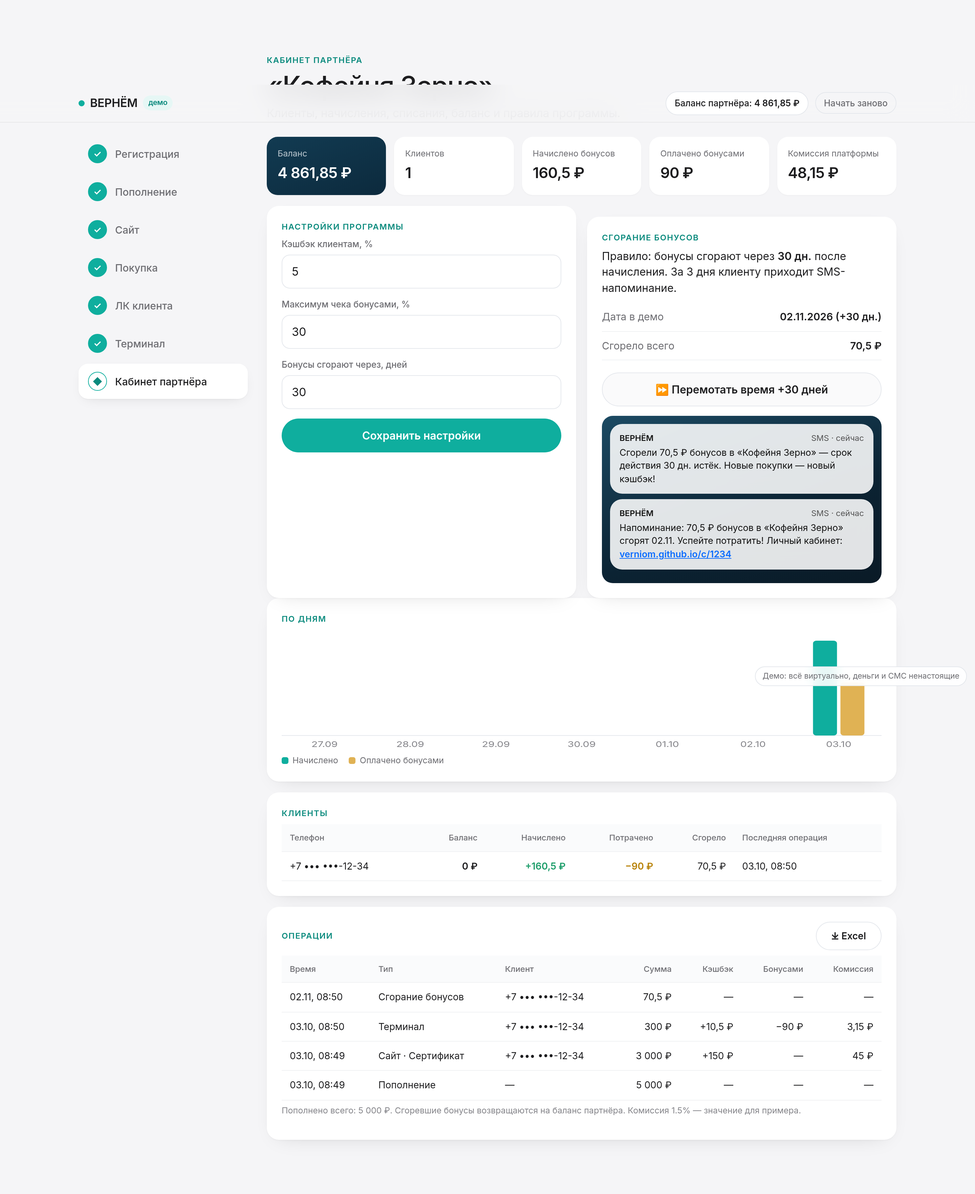
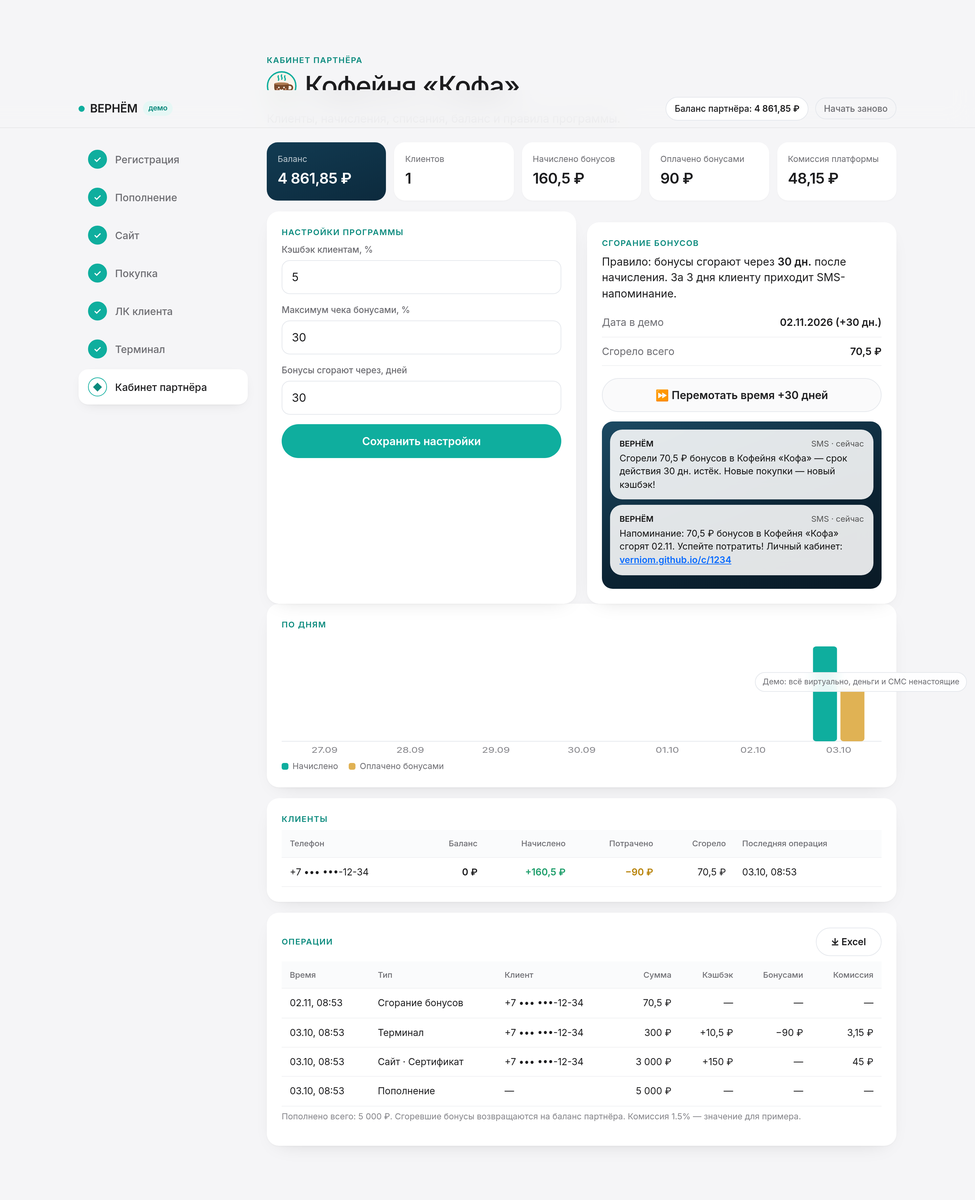
Демо: кофейня «Кофа» с SVG-логотипом (лендинг, кабинеты, админка)

diff --git a/demo/index.html b/demo/index.html
@@ -164,6 +164,8 @@ td.n,th.n{text-align:right}
 .toast.show{opacity:1;transform:translateX(-50%)}
 .vnote{position:fixed;right:12px;bottom:calc(12px + env(safe-area-inset-bottom));z-index:40;font-size:11.5px;color:var(--grey);background:rgba(255,255,255,.9);border:1px solid var(--border);border-radius:980px;padding:5px 10px;backdrop-filter:blur(8px)}
 .next{margin-top:18px}
+.ava{flex-shrink:0;display:block}.lbrand,.hlogo,.nett{display:inline-flex;align-items:center;gap:8px}.hlogo{gap:12px}.nett .ava{border-radius:50%}
+.land .hero .hero-ava{margin-bottom:10px;filter:drop-shadow(0 8px 14px rgba(122,74,42,.25))}
 .visit{display:grid;grid-template-columns:1fr 1fr;gap:12px;padding:0 20px 20px}
 .map{position:relative;min-height:140px;border-radius:16px;overflow:hidden;background:#EAE6DF}
 .map .rd{position:absolute;background:#fff}.map .h1{left:0;right:0;top:38%;height:12px}.map .h2{left:0;right:0;top:75%;height:7px}.map .v1{top:0;bottom:0;left:30%;width:9px}.map .v2{top:0;bottom:0;left:72%;width:14px;transform:skewX(-12deg)}
@@ -172,7 +174,7 @@ td.n,th.n{text-align:right}
 .vinfo{background:#fff;border-radius:16px;padding:14px;font-size:13.5px;display:flex;flex-direction:column;gap:6px;color:#4a372a}.vinfo b{font-weight:600;color:#2b1d14}
 .nets-t{font-size:12px;font-weight:600;color:var(--grey);margin:0 2px 6px}
 .bal2{display:flex;justify-content:space-between;align-items:center;background:#fff;border-radius:14px;padding:12px;margin-bottom:10px;border:1px solid var(--border)}
-.bal2 .t{font-size:13px;font-weight:600}.bal2 small{font-size:11px;color:var(--grey2)}.bal2 b{font-weight:600}
+.bal2 .t{font-size:13px;font-weight:600}.bal2 small{font-size:11px;color:var(--grey2)}.bal2 b{font-weight:600;white-space:nowrap;margin-left:8px}
 .model{background:var(--tint);color:#0b5f56;border-radius:12px;padding:12px 14px;font-size:14px;margin:14px 0 4px}.model b{font-weight:600}
 @media (max-width:560px){.visit{grid-template-columns:1fr}}
 .pill.low{border-color:#F3C7C1;color:var(--red)}
@@ -221,7 +223,11 @@ var KEY='verniom_demo_v2',DAY=864e5,LOW=1000;
 var STEPS=[[1,'Регистрация'],[2,'Пополнение'],[3,'Сайт'],[4,'Покупка'],[5,'ЛК клиента'],[6,'Терминал'],[7,'Кабинет партнёра']];
 var ADDR='ул. Братиславская, 14, Москва',HOURS='Ежедневно 8:00–22:00';
 var OTHER={name:'Автомойка «Блеск»',bal:120,exp:'15.12.2026'};
-function coffee(n){n=String(n||'').trim()||'Зерно';return /коф|cafe|coffee|кафе/i.test(n)?n:'Кофейня '+n;}
+function coffee(n){n=String(n||'').trim();if(!n)return 'Кофейня «Кофа»';return /кофейн|кафе|cafe|coffee|кофе(?![а-яё])/i.test(n)?n:'Кофейня '+qn(n);}
+function logo(sz,cls){sz=sz||40;return '<svg class="ava'+(cls?' '+cls:'')+'" width="'+sz+'" height="'+sz+'" viewBox="0 0 64 64" aria-hidden="true"><circle cx="32" cy="32" r="30.5" fill="#FBF3EA" stroke="#0FAE9E" stroke-width="3"/><path d="M25 10c-3 3.5 3 5.5 0 9.5M32 8c-3 3.5 3 5.5 0 9.5M39 10c-3 3.5 3 5.5 0 9.5" stroke="#0FAE9E" stroke-width="2.6" fill="none" stroke-linecap="round"/><path d="M47 30h2.5a5.5 5.5 0 0 1 0 11H45" stroke="#7A4A2A" stroke-width="3.4" fill="none" stroke-linecap="round"/><path d="M16 27h31v8a13 13 0 0 1-13 13h-5a13 13 0 0 1-13-13z" fill="#7A4A2A"/><ellipse cx="31.5" cy="27" rx="15.5" ry="2.8" fill="#B07B52"/><circle cx="26" cy="35" r="1.7" fill="#FBF3EA"/><circle cx="37" cy="35" r="1.7" fill="#FBF3EA"/><path d="M28.5 39.5c1.6 1.8 4.4 1.8 6 0" stroke="#FBF3EA" stroke-width="2" fill="none" stroke-linecap="round"/><circle cx="22.5" cy="38.5" r="1.8" fill="#E9A38B" opacity=".8"/><circle cx="40.5" cy="38.5" r="1.8" fill="#E9A38B" opacity=".8"/><path d="M13 52h37" stroke="#D2B08F" stroke-width="3" stroke-linecap="round"/></svg>';}
+function initAva(n,sz,bg){sz=sz||40;var ch=String(n).replace(/^[^«]*«/,'').charAt(0).toUpperCase();return '<svg class="ava" width="'+sz+'" height="'+sz+'" viewBox="0 0 64 64" aria-hidden="true"><circle cx="32" cy="32" r="31" fill="'+(bg||'#E6F7F5')+'"/><text x="32" y="41" text-anchor="middle" font-family="Inter,sans-serif" font-size="26" font-weight="600" fill="#0A8A7D">'+ch+'</text></svg>';}
+function qn(n){n=String(n);return /[«"]/.test(n)?n:'«'+n+'»';}
+
 var MENU=[['☕','Капучино',290],['🥛','Латте',320],['☕','Флэт уайт',340],['🥐','Круассан',250],['🍰','Чизкейк',380],['🎁','Сертификат',3000]];
 function blank(){return {partner:null,site:null,clients:{},tx:[],last:null,step:1,sms:[],off:0};}
 var S;
@@ -288,19 +294,19 @@ function v1(){
   var p=S.partner;
   return head('Шаг 1','Регистрация партнёра','Подключите любой бизнес за минуту. В демо — кофейня: название можно поменять.')+
   '<div class="card"><form id="f1" autocomplete="off">'+
-  '<label class="f"><span>Название бизнеса</span><input class="i" name="name" required maxlength="40" value="'+esc(p?p.name:'Кофейня Зерно')+'"></label>'+
+  '<label class="f"><span>Название бизнеса</span><input class="i" name="name" required maxlength="40" value="'+esc(p?p.name:'Кофейня «Кофа»')+'"></label>'+
   '<label class="f"><span>Телефон</span><input class="i" name="phone" type="tel" inputmode="tel" required value="'+esc(p?fmtPhone(p.phone):'+7 (900) 123-45-67')+'"></label>'+
   '<div class="grid2"><label class="f"><span>Кэшбэк клиентам, %</span><input class="i" name="cb" type="number" inputmode="decimal" min="1" max="30" step="0.5" value="'+(p?p.cb:5)+'"></label>'+
   '<label class="f"><span>Комиссия платформы, %</span><input class="i" name="comm" type="number" inputmode="decimal" min="0" max="20" step="0.1" placeholder="1" value="'+(p?p.comm:1)+'"><div class="hint">Значение для примера — можно изменить</div></label></div>'+
   '<button class="btn wide" data-t="create">'+(p?'Сохранить':'Создать кабинет партнёра')+'</button></form>'+
-  (p?'<div class="ok-banner">✓ Кабинет «'+esc(p.name)+'» создан</div><button class="btn sec wide" data-t="to2">Дальше: пополнить баланс →</button>':'')+'</div>';
+  (p?'<div class="ok-banner">✓ Кабинет '+esc(qn(p.name))+' создан</div><button class="btn sec wide" data-t="to2">Дальше: пополнить баланс →</button>':'')+'</div>';
 }
 function b1(){
   $('#f1').onsubmit=function(e){e.preventDefault();var f=e.target;var ph=normPhone(f.phone.value);
     if(ph.length!==11){toast('Введите телефон в формате +7…');return;}
     var cb=parseFloat(String(f.cb.value).replace(',','.'));if(!(cb>=1&&cb<=30)){toast('Кэшбэк: от 1 до 30%');return;}
     var cm=f.comm.value===''?1:parseFloat(String(f.comm.value).replace(',','.'));if(!(cm>=0&&cm<=20)){toast('Комиссия: от 0 до 20%');return;}
-    var name=f.name.value.trim()||'Кофейня Зерно';
+    var name=f.name.value.trim()||'Кофейня «Кофа»';
     if(S.partner){S.partner.name=name;S.partner.phone=ph;S.partner.cb=cb;S.partner.comm=cm;}
     else S.partner={name:name,phone:ph,cb:cb,comm:cm,balance:0,maxShare:30,expDays:30,created:vnow()};
     S.partner.slug=slug(name);save();toast('Кабинет партнёра создан');go(2);};
@@ -347,7 +353,7 @@ function b3(){
   $$('[data-mode]').forEach(function(b){b.onclick=function(){siteMode=b.dataset.mode;render();};});
   var f=$('#f3');if(f)f.onsubmit=function(e){e.preventDefault();var u=e.target.url.value.trim().replace(/^https?:\/\//,'');if(!u){toast('Введите адрес');return;}S.site={mode:'own',url:u};save();toast('Виджет установлен');render();};
   var p=$('[data-t=publish]');if(p)p.onclick=async function(){p.disabled=true;var log=$('#log');log.hidden=false;
-    var L=['$ verniom init «'+S.partner.name+'»','→ Генерируем страницу и меню…','→ Подключаем кэшбэк '+S.partner.cb+'%…','→ Выпускаем SSL-сертификат…','→ Публикуем на '+S.partner.slug+'.verniom.github.io…','✓ Готово! Сайт опубликован'];
+    var L=['$ verniom init '+qn(S.partner.name)+'','→ Генерируем страницу и меню…','→ Подключаем кэшбэк '+S.partner.cb+'%…','→ Выпускаем SSL-сертификат…','→ Публикуем на '+S.partner.slug+'.verniom.github.io…','✓ Готово! Сайт опубликован'];
     for(var i=0;i<L.length;i++){await sleep(450);var d=document.createElement('div');d.textContent=L[i];log.appendChild(d);}
     await sleep(400);S.site={mode:'new'};save();toast('Сайт опубликован');go(4);};
   var t=$('[data-t=to4]');if(t)t.onclick=function(){go(4);};
@@ -356,8 +362,8 @@ function b3(){
 function landing(){
   var p=S.partner,cn=coffee(p.name);
   return '<div class="browser"><div class="bbar"><i></i><i></i><i></i><div class="url">🔒 '+esc(siteUrl())+'</div></div><div class="land">'+
-  '<div class="nav"><span>☕ '+esc(cn)+'</span><small>📍 '+ADDR+'</small></div>'+
-  '<div class="hero"><h2>'+esc(cn)+'</h2><p>Кофе, который хочется повторить. Свежая обжарка и выпечка каждый день.</p><div class="cbk"><span class="dot"></span>Кэшбэк '+p.cb+'% с каждой покупки</div></div>'+
+  '<div class="nav"><span class="lbrand">'+logo(34)+esc(cn)+'</span><small>📍 '+ADDR+'</small></div>'+
+  '<div class="hero">'+logo(64,'hero-ava')+'<h2>'+esc(cn)+'</h2><p>Кофе, который хочется повторить. Свежая обжарка и выпечка каждый день.</p><div class="cbk"><span class="dot"></span>Кэшбэк '+p.cb+'% с каждой покупки</div></div>'+
   '<div class="menu">'+MENU.map(function(m,i){return '<div class="mi"><div class="em">'+m[0]+'</div><b>'+m[1]+'</b><span class="pr">'+fmt(m[2])+'</span><button data-buy="'+i+'">Купить</button></div>';}).join('')+'</div>'+
   '<div class="visit"><div class="map" aria-hidden="true"><i class="rd h1"></i><i class="rd h2"></i><i class="rd v1"></i><i class="rd v2"></i><span class="pin"><i>☕</i></span><span class="mlbl">Братиславская</span></div>'+
   '<div class="vinfo"><b>Как нас найти</b><div>📍 '+ADDR+'</div><div>🚇 м. Братиславская, 3 мин пешком</div><div>🕗 '+HOURS+'</div><div>☎ '+esc(fmtPhone(p.phone))+'</div></div></div>'+
@@ -369,9 +375,9 @@ function phoneLock(list,id){
   (list.length?list.slice(0,4).map(smsHtml).join(''):'<div class="empty">Здесь появится SMS клиенту</div>')+'</div></div></div></div>';
 }
 function smsHtml(m){
-  var b;if(m.k==='rem')b='Напоминание: '+fmt(m.amt)+' бонусов в «'+esc(m.partner)+'» сгорят '+dshort(m.exp)+'. Успейте потратить! Личный кабинет: <a data-lk="'+m.phone+'">'+lkLink(m.phone)+'</a>';
-  else if(m.k==='exp')b='Сгорели '+fmt(m.amt)+' бонусов в «'+esc(m.partner)+'» — срок действия '+m.days+' дн. истёк. Новые покупки — новый кэшбэк!';
-  else b='Вам начислен кэшбэк '+fmt(m.cb)+' в «'+esc(m.partner)+'». Личный кабинет: <a data-lk="'+m.phone+'">'+lkLink(m.phone)+'</a>';
+  var b;if(m.k==='rem')b='Напоминание: '+fmt(m.amt)+' бонусов в '+esc(qn(m.partner))+' сгорят '+dshort(m.exp)+'. Успейте потратить! Личный кабинет: <a data-lk="'+m.phone+'">'+lkLink(m.phone)+'</a>';
+  else if(m.k==='exp')b='Сгорели '+fmt(m.amt)+' бонусов в '+esc(qn(m.partner))+' — срок действия '+m.days+' дн. истёк. Новые покупки — новый кэшбэк!';
+  else b='Вам начислен кэшбэк '+fmt(m.cb)+' в '+esc(qn(m.partner))+'. Личный кабинет: <a data-lk="'+m.phone+'">'+lkLink(m.phone)+'</a>';
   return '<div class="sms show"><div class="h"><b>ВЕРНЁМ</b><span>SMS · сейчас</span></div>'+b+'</div>';}
 var lastBreak=null;
 function v4(){
@@ -379,7 +385,7 @@ function v4(){
   '<div class="stage"><div>'+landing()+(lastBreak?breakHtml(lastBreak):'')+'</div><div id="phonecol">'+phoneLock(S.sms)+'<p class="hint" style="text-align:center">Телефон клиента (макет) · нажмите ссылку в SMS</p></div></div>';
 }
 function breakHtml(b){return '<div class="card" style="margin-top:16px"><div class="eyebrow">Расчёт по покупке</div>'+
-  '<div class="kv"><span>Покупка «'+esc(b.item)+'»</span><b>'+fmt(b.amount)+'</b></div>'+
+  '<div class="kv"><span>Покупка '+esc(qn(b.item))+'</span><b>'+fmt(b.amount)+'</b></div>'+
   '<div class="kv"><span>Кэшбэк клиенту ('+b.cbp+'%)</span><b class="plus">+'+fmt(b.cb)+'</b></div>'+
   '<div class="kv"><span>Комиссия платформы ('+b.cp+'%)</span><b>'+fmt(b.comm)+'</b></div>'+
   '<div class="kv"><span>Списано с баланса партнёра</span><b class="minus">−'+fmt(b.cb+b.comm)+'</b></div>'+
@@ -416,16 +422,16 @@ function v5(){
   var c=client(S.last),p=S.partner,ne=nextExp(c);
   return head('Шаг 5','Личный кабинет клиента','Клиент открыл ссылку из SMS: баланс, история, срок бонусов и PIN для терминала.')+
   '<div class="stage s5"><div><div class="phone"><div class="screen"><div class="isl"></div><div class="sbar"><span>9:41</span><span>●●● ▮</span></div><div class="lk">'+
-  '<div class="hd"><span><span class="dot"></span> '+esc(p.name)+'</span><span style="font-size:12px;color:var(--grey)">'+esc(maskPhone(c.phone))+'</span></div>'+
+  '<div class="hd"><span class="nett">'+logo(24)+esc(p.name)+'</span><span style="font-size:12px;color:var(--grey)">'+esc(maskPhone(c.phone))+'</span></div>'+
   '<div class="nets-t">Мои бонусы по сетям</div>'+
-  '<div class="bal"><div class="t">'+esc(coffee(p.name).toUpperCase())+'</div><div class="s" data-t="cbal">'+fmt(c.balance)+'</div><p>+'+p.cb+'% с покупки · тратятся только здесь</p></div>'+
-  '<div class="bal2"><div><div class="t">'+esc(OTHER.name)+'</div><small>только в этой сети · до '+OTHER.exp+'</small></div><b>'+fmt(OTHER.bal)+'</b></div>'+
+  '<div class="bal"><div class="t nett">'+logo(26)+esc(coffee(p.name).toUpperCase())+'</div><div class="s" data-t="cbal">'+fmt(c.balance)+'</div><p>+'+p.cb+'% с покупки · тратятся только здесь</p></div>'+
+  '<div class="bal2"><div class="nett">'+initAva(OTHER.name,30)+'<div><div class="t">'+esc(OTHER.name)+'</div><small>только в этой сети · до '+OTHER.exp+'</small></div></div><b>'+fmt(OTHER.bal)+'</b></div>'+
   '<div class="lkc exp"><h4>Срок действия</h4>'+(ne?'<div class="hr"><div>Сгорят '+dstr(ne.exp)+'<small>Бонусы действуют '+p.expDays+' дн.</small></div><div class="minus">'+fmt(ne.amt)+'</div></div>':'<div class="hint">Нет бонусов со сроком · действуют '+p.expDays+' дн.</div>')+'</div>'+
   '<div class="lkc"><h4>История</h4>'+(c.hist.length?c.hist.slice(0,6).map(function(h){return '<div class="hr"><div>'+esc(h.txt)+'<small>'+h.t+' · '+fmt(h.amount)+'</small></div><div class="'+(h.d>=0?'plus':'minus')+'">'+(h.d>=0?'+':'−')+fmt(Math.abs(h.d))+'</div></div>';}).join(''):'<div class="hint">Пока пусто</div>')+'</div>'+
   '<div class="lkc"><h4>PIN для оплаты в терминале</h4><div class="pinrow"><input id="pin" inputmode="numeric" maxlength="4" value="'+esc(c.pin)+'" aria-label="PIN"><button data-t="pin">Сохранить</button></div><div class="hint">По умолчанию 1234</div></div>'+
   '</div></div></div></div>'+
-  '<div class="card"><div class="eyebrow">Что видит клиент</div><div class="kv"><span>Телефон</span><b>'+esc(fmtPhone(c.phone))+'</b></div><div class="kv"><span>Бонусов в «'+esc(p.name)+'»</span><b>'+fmt(c.balance)+'</b></div><div class="kv"><span>Бонусов в «'+esc(OTHER.name)+'»</span><b>'+fmt(OTHER.bal)+'</b></div><div class="kv"><span>Всего начислено</span><b>'+fmt(c.accrued)+'</b></div><div class="kv"><span>Потрачено</span><b>'+fmt(c.spent)+'</b></div><div class="kv"><span>Сгорело</span><b>'+fmt(c.burned)+'</b></div>'+
-  '<div class="model"><b>Бонусы — внутри сети.</b> Кэшбэк из «'+esc(p.name)+'» тратится только в «'+esc(p.name)+'», бонусы «'+esc(OTHER.name)+'» — только там. В одном кабинете клиент видит балансы всех сетей.</div>'+'<p class="hint">Вход по ссылке из SMS, без пароля. Бонусами можно оплатить до '+p.maxShare+'% чека в терминале по телефону и PIN.</p>'+
+  '<div class="card"><div class="eyebrow">Что видит клиент</div><div class="kv"><span>Телефон</span><b>'+esc(fmtPhone(c.phone))+'</b></div><div class="kv"><span>Бонусов в '+esc(qn(p.name))+'</span><b>'+fmt(c.balance)+'</b></div><div class="kv"><span>Бонусов в '+esc(qn(OTHER.name))+'</span><b>'+fmt(OTHER.bal)+'</b></div><div class="kv"><span>Всего начислено</span><b>'+fmt(c.accrued)+'</b></div><div class="kv"><span>Потрачено</span><b>'+fmt(c.spent)+'</b></div><div class="kv"><span>Сгорело</span><b>'+fmt(c.burned)+'</b></div>'+
+  '<div class="model"><b>Бонусы — внутри сети.</b> Кэшбэк из '+esc(qn(p.name))+' тратится только в '+esc(qn(p.name))+', бонусы '+esc(qn(OTHER.name))+' — только там. В одном кабинете клиент видит балансы всех сетей.</div>'+'<p class="hint">Вход по ссылке из SMS, без пароля. Бонусами можно оплатить до '+p.maxShare+'% чека в терминале по телефону и PIN.</p>'+
   '<button class="btn wide next" data-t="to6">Оплатить бонусами в терминале →</button><button class="btn sec wide" style="margin-top:8px" data-t="back4">Купить ещё на сайте</button></div></div>';
 }
 function b5(){
@@ -450,7 +456,7 @@ function v6(){
   return head('Шаг 6','Оплата бонусами в терминале','Клиент называет телефон и PIN — бонусы списываются прямо на кассе (до '+p.maxShare+'% чека).')+
   '<div class="stage s6"><div><div class="term"><div class="tlogo"><span>● ВЕРНЁМ POS</span><span>'+esc(p.name)+'</span></div><div class="tscr" id="tscr">'+tscreen()+'</div>'+
   '<div class="keys">'+['1','2','3','4','5','6','7','8','9','del','0','ok'].map(function(k){return '<button class="key'+(k==='ok'?' ok':k==='del'?' del':'')+'" data-k="'+k+'">'+(k==='ok'?'OK':k==='del'?'⌫':k)+'</button>';}).join('')+'</div></div><p class="hint" style="text-align:center">Терминал (макет) · можно печатать с клавиатуры</p></div>'+
-  '<div><div class="card"><div class="eyebrow">Балансы</div><div class="kv"><span>Клиент '+esc(maskPhone(S.last))+'</span><b data-t="tcb">'+fmt(c?c.balance:0)+'</b></div><div class="kv"><span>Партнёр «'+esc(p.name)+'»</span><b>'+fmt(p.balance)+'</b></div><div class="hint">PIN клиента: '+esc(c?c.pin:'1234')+' (подсказка для демо) · правило: бонусами не более '+p.maxShare+'% чека · списываются только бонусы сети «'+esc(p.name)+'»</div></div>'+
+  '<div><div class="card"><div class="eyebrow">Балансы</div><div class="kv"><span>Клиент '+esc(maskPhone(S.last))+'</span><b data-t="tcb">'+fmt(c?c.balance:0)+'</b></div><div class="kv"><span>Партнёр '+esc(qn(p.name))+'</span><b>'+fmt(p.balance)+'</b></div><div class="hint">PIN клиента: '+esc(c?c.pin:'1234')+' (подсказка для демо) · правило: бонусами не более '+p.maxShare+'% чека · списываются только бонусы сети '+esc(qn(p.name))+'</div></div>'+
   '<div class="card"><div class="eyebrow">История операций</div>'+(S.tx.filter(function(t){return t.type==='purchase'||t.type==='terminal';}).slice(0,5).map(function(t){return '<div class="kv"><span>'+(t.type==='terminal'?'Терминал'+(t.used?' · бонусами −'+fmt(t.used):''):'Сайт: '+esc(t.item))+' · '+esc(maskPhone(t.phone))+'</span><b>'+fmt(t.amount)+'</b></div>';}).join('')||'<div class="hint">Пока нет</div>')+
   (done(6)?'<button class="btn wide next" data-t="to7">Открыть кабинет партнёра →</button>':'')+'</div></div></div>';
 }
@@ -502,7 +508,7 @@ function chart(){
 function v7(){
   var p=S.partner,cl=Object.keys(S.clients).map(function(k){return S.clients[k];}),s=stats();
   var notes=S.sms.filter(function(m){return m.k==='rem'||m.k==='exp';});
-  return head('Кабинет партнёра','«'+esc(p.name)+'»','Клиенты, начисления, списания, баланс и правила программы.')+
+  return head('Кабинет партнёра','<span class="hlogo">'+logo(44)+esc(p.name)+'</span>','Клиенты, начисления, списания, баланс и правила программы.')+
   (p.balance<LOW?'<div class="warn">⚠ Низкий баланс: '+fmt(p.balance)+'. При нуле кэшбэк перестанет начисляться. <button class="btn" data-t="topup" style="min-height:40px;padding:0 16px;font-size:14px">Пополнить</button></div>':'')+
   '<div class="kpis"><div class="kpi dk"><div class="k">Баланс</div><div class="v">'+fmt(p.balance)+'</div></div><div class="kpi"><div class="k">Клиентов</div><div class="v">'+cl.length+'</div></div><div class="kpi"><div class="k">Начислено бонусов</div><div class="v">'+fmt(s.acc)+'</div></div><div class="kpi"><div class="k">Оплачено бонусами</div><div class="v">'+fmt(s.used)+'</div></div><div class="kpi"><div class="k">Комиссия платформы</div><div class="v">'+fmt(s.comm)+'</div></div></div>'+
   '<div class="grid2"><div class="card"><div class="eyebrow">Настройки программы</div><form id="f7">'+

diff --git a/demo/admin/index.html b/demo/admin/index.html
@@ -207,6 +207,7 @@ td.go{color:var(--grey2);font-size:20px}
 .sheet .warn{margin:10px 0 0;font-size:13.5px}
 .roll{border:1.5px solid var(--brand)}
 @media (max-width:820px){.dgrid{grid-template-columns:1fr}.ov{padding:0}.sheet{margin:0;border-radius:0;min-height:100%;padding:16px 12px 40px}.vnote{position:static;display:table;margin:-60px auto 24px}.kv{font-size:14px;gap:10px}.kv b{text-align:right}}
+.ava{flex-shrink:0;display:block}.nett{display:flex;align-items:center;gap:12px}
 </style>
 </head>
 <body>
@@ -244,13 +245,16 @@ var SEED=[
    [['79161112233',2450],['79267776655',1980],['79035554433',1720],['79857771122',1510],['79998880011',1240]],
    [['03.10, 07:10','Покупка','79161112233',6900,690,0,69],['02.10, 21:30','Терминал','79267776655',4500,450,900,36],['15.09, 10:00','Пополнение','',30000,0,0,0]])
 ];
+function logo(sz,cls){sz=sz||40;return '<svg class="ava'+(cls?' '+cls:'')+'" width="'+sz+'" height="'+sz+'" viewBox="0 0 64 64" aria-hidden="true"><circle cx="32" cy="32" r="30.5" fill="#FBF3EA" stroke="#0FAE9E" stroke-width="3"/><path d="M25 10c-3 3.5 3 5.5 0 9.5M32 8c-3 3.5 3 5.5 0 9.5M39 10c-3 3.5 3 5.5 0 9.5" stroke="#0FAE9E" stroke-width="2.6" fill="none" stroke-linecap="round"/><path d="M47 30h2.5a5.5 5.5 0 0 1 0 11H45" stroke="#7A4A2A" stroke-width="3.4" fill="none" stroke-linecap="round"/><path d="M16 27h31v8a13 13 0 0 1-13 13h-5a13 13 0 0 1-13-13z" fill="#7A4A2A"/><ellipse cx="31.5" cy="27" rx="15.5" ry="2.8" fill="#B07B52"/><circle cx="26" cy="35" r="1.7" fill="#FBF3EA"/><circle cx="37" cy="35" r="1.7" fill="#FBF3EA"/><path d="M28.5 39.5c1.6 1.8 4.4 1.8 6 0" stroke="#FBF3EA" stroke-width="2" fill="none" stroke-linecap="round"/><circle cx="22.5" cy="38.5" r="1.8" fill="#E9A38B" opacity=".8"/><circle cx="40.5" cy="38.5" r="1.8" fill="#E9A38B" opacity=".8"/><path d="M13 52h37" stroke="#D2B08F" stroke-width="3" stroke-linecap="round"/></svg>';}
+function initAva(n,sz,bg){sz=sz||40;var ch=String(n).replace(/^[^«]*«/,'').charAt(0).toUpperCase();return '<svg class="ava" width="'+sz+'" height="'+sz+'" viewBox="0 0 64 64" aria-hidden="true"><circle cx="32" cy="32" r="31" fill="'+(bg||'#E6F7F5')+'"/><text x="32" y="41" text-anchor="middle" font-family="Inter,sans-serif" font-size="26" font-weight="600" fill="#0A8A7D">'+ch+'</text></svg>';}
+function qn(n){n=String(n);return /[«"]/.test(n)?n:'«'+n+'»';}
 function load(){try{return JSON.parse(localStorage.getItem(KEY))||null;}catch(e){return null;}}
 function mine(S){
   if(!S||!S.partner)return null;var p=S.partner,x={top:0,issued:0,comm:0,redeemed:0,expired:0,turn:0};
   (S.tx||[]).forEach(function(t){if(t.type==='topup')x.top+=t.amount;else if(t.type==='expire')x.expired+=t.amount;else{x.issued+=t.cb||0;x.redeemed+=t.used||0;x.comm+=t.comm||0;x.turn+=t.amount||0;}});
   var cl=Object.keys(S.clients||{}).map(function(k){return S.clients[k];}),out=cl.reduce(function(a,c){return a+(c.balance||0);},0);
   var tn=function(t){return t.type==='topup'?'Пополнение':t.type==='terminal'?'Терминал':t.type==='expire'?'Сгорание бонусов':'Покупка · '+t.item;};
-  return {id:'me',me:1,name:p.name,kind:'Ваш демо-партнёр',cb:p.cb,ms:p.maxShare,ed:p.expDays,clients:cl.length,top:r2(x.top),issued:r2(x.issued),comm:r2(x.comm),redeemed:r2(x.redeemed),expired:r2(x.expired),
+  return {id:'me',me:1,name:p.name,kind:'Кофейня · ваш демо-партнёр',cb:p.cb,ms:p.maxShare,ed:p.expDays,clients:cl.length,top:r2(x.top),issued:r2(x.issued),comm:r2(x.comm),redeemed:r2(x.redeemed),expired:r2(x.expired),
     remaining:r2(p.balance),outstanding:r2(out),turn:r2(x.turn),commPct:p.comm,
     topc:cl.slice().sort(function(a,b){return b.balance-a.balance;}).slice(0,5).map(function(c){return [c.phone,c.balance];}),
     ops:(S.tx||[]).slice(0,12).map(function(t){return [t.t,tn(t),t.phone||'',t.amount,t.cb||0,t.used||0,t.comm||0];})};
@@ -258,6 +262,7 @@ function mine(S){
 var NETS=[],TOT={};
 function compute(){var m=mine(load());NETS=(m?[m]:[]).concat(SEED);TOT={top:0,remaining:0,outstanding:0,comm:0,issued:0,redeemed:0,expired:0,clients:0,turn:0};
   NETS.forEach(function(n){for(var k in TOT)TOT[k]=r2(TOT[k]+n[k]);});return m;}
+function ava(n,sz){return n.me?logo(sz):initAva(n.name,sz);}
 function kpi(k,v,dk){return '<div class="kpi'+(dk?' dk':'')+'"><div class="k">'+k+'</div><div class="v">'+v+'</div></div>';}
 function render(){
   var m=compute();
@@ -266,7 +271,7 @@ function render(){
   '<div class="kpis">'+kpi('Комиссия платформы (заработано)',fmt(TOT.comm),1)+kpi('Депозиты сетей (остаток)',fmt(TOT.remaining))+kpi('Бонусы у клиентов (обязательства)',fmt(TOT.outstanding))+kpi('Сетей',NETS.length)+kpi('Клиентов',num(TOT.clients))+'</div>'+
   '<div class="card model"><b>Модель.</b> Каждая сеть пополняет свой <b>денежный депозит</b> в платформе; из него оплачиваются кэшбэк клиентам и комиссия платформы. <b>Бонусы — внутри сети:</b> бонусы, начисленные в кофейне, тратятся только в этой кофейне. Клиент видит в одном кабинете балансы всех сетей, но не может перенести бонусы из одной сети в другую. Сгоревшие бонусы возвращаются на депозит сети.</div>'+
   '<div class="card"><div class="eyebrow">Сети-партнёры · нажмите для деталей</div><div class="tw"><table class="nets"><tr><th>Сеть</th><th class="n">Кэшбэк</th><th class="n">Клиенты</th><th class="n">Депозит (остаток)</th><th class="n">Бонусы у клиентов</th><th class="n">Комиссия</th><th></th></tr>'+
-  NETS.map(function(n){return '<tr data-net="'+n.id+'"'+(n.me?' class="me"':'')+' tabindex="0"><td><b>'+esc(n.name)+'</b>'+(n.me?' <span class="badge">вы</span>':'')+'<small>'+esc(n.kind)+'</small></td><td class="n">'+n.cb+'%</td><td class="n">'+num(n.clients)+'</td><td class="n'+(n.remaining<LOW?' lowc':'')+'">'+fmt(n.remaining)+(n.remaining<LOW?' ⚠':'')+'</td><td class="n">'+fmt(n.outstanding)+'</td><td class="n"><b>'+fmt(n.comm)+'</b></td><td class="n go">›</td></tr>';}).join('')+
+  NETS.map(function(n){return '<tr data-net="'+n.id+'"'+(n.me?' class="me"':'')+' tabindex="0"><td><div class="nett">'+ava(n,36)+'<div><b>'+esc(n.name)+'</b>'+(n.me?' <span class="badge">вы</span>':'')+'<small>'+esc(n.kind)+'</small></div></div></td><td class="n">'+n.cb+'%</td><td class="n">'+num(n.clients)+'</td><td class="n'+(n.remaining<LOW?' lowc':'')+'">'+fmt(n.remaining)+(n.remaining<LOW?' ⚠':'')+'</td><td class="n">'+fmt(n.outstanding)+'</td><td class="n"><b>'+fmt(n.comm)+'</b></td><td class="n go">›</td></tr>';}).join('')+
   '<tr class="tot"><td>Платформа, итого</td><td></td><td class="n">'+num(TOT.clients)+'</td><td class="n">'+fmt(TOT.remaining)+'</td><td class="n">'+fmt(TOT.outstanding)+'</td><td class="n">'+fmt(TOT.comm)+'</td><td></td></tr></table></div>'+
   '<p class="hint">Три сети — выдуманные данные для примера. Ваш демо-партнёр берётся из того же браузера и обновляется в реальном времени.</p></div>';
   $$('[data-net]').forEach(function(r){r.onclick=function(){open(r.dataset.net);};r.onkeydown=function(e){if(e.key==='Enter')open(r.dataset.net);};});
@@ -278,7 +283,7 @@ function share(a,b){return b?Math.round(a/b*100)+'%':'—';}
 function open(id,keep){
   var n=NETS.filter(function(x){return x.id===id;})[0];if(!n){close();return;}cur=id;
   var low=n.remaining<LOW,cover=n.outstanding?r2(n.remaining/n.outstanding*100):100;
-  $('#dd').innerHTML='<div class="ddh"><div><div class="eyebrow">'+esc(n.kind)+'</div><h2>'+esc(n.name)+'</h2></div><button class="ghost" data-x>Закрыть ✕</button></div>'+
+  $('#dd').innerHTML='<div class="ddh"><div class="nett">'+ava(n,52)+'<div><div class="eyebrow">'+esc(n.kind)+'</div><h2>'+esc(n.name)+'</h2></div></div><button class="ghost" data-x>Закрыть ✕</button></div>'+
   '<div class="dgrid">'+
   '<div class="card"><div class="eyebrow">💰 Деньги · депозит сети</div>'+row('Пополнено',fmt(n.top))+row('Потрачено на кэшбэк','−'+fmt(n.issued),'minus')+row('Комиссия платформы','−'+fmt(n.comm),'minus')+row('Возвращено (сгоревшие бонусы)','+'+fmt(n.expired),'plus')+row('Остаток депозита',fmt(n.remaining))+
    '<div class="'+(low?'warn':'okb')+'">'+(low?'⚠ Низкий баланс — кэшбэк скоро перестанет начисляться, нужно пополнение':'✓ Баланс в норме (порог '+fmt(LOW)+')')+'</div></div>'+
